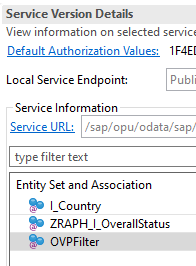
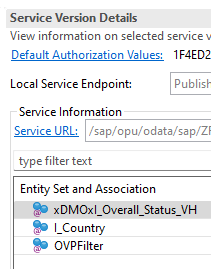
Fixed instructions and solutions

diff --git a/CreateInitialOVP.md b/CreateInitialOVP.md
@@ -8,6 +8,7 @@ As primary source for the CDS View Entity we use ZRAPH\_##\_I\_TravelWDTP.
 To get access to the customers home country, we need the data of /DMO/I_Customer.  
 This view entity could be joined in here, but we already have an association to it defined and exposed in ZRAPH\_##\_I\_TravelWDTP.  
 So, find and use this association.  
+We want to alias this country field because we are placing it in another context now (see Field name in below table).  
   
 Following fields need to be put in the projection list:  
 
@@ -86,7 +87,7 @@ If you press on "Adapt Filters", the 3 fields we defined in the Consumption View
 ### 6. Add filter fields to filter bar and rename them
 This is not how we want our filter bar to look.  
 We want to have the filter fields available directly on the filter bar without needing to adapt them.  
-Also we want different labels not show the travel id at all.  
+Also we want other labels and not show the travel id at all.  
 Therefore we add the following annotations to ZRAPH\_##\_C\_OVPFilter:  
   
 __TravelID:__
@@ -115,28 +116,27 @@ However when pressing the value help button, only a generic popup shows up.
 
 ### 7. Add useful value helps for the filter fields
   
-#### Add associations to the status and country to ZRAPH_##_I_OVPFilter
-The association target is ZRAPH\_I\_OverallStatus.  
-The connection is done using fields TravelStatus and overall_status of the corresponding views.  
-Alias the association with _Status and expose it in the projection list.  
-  
-The association target is I\_Country.  
-The connection is done using fields Country and CustomerHomeCountry of the corresponding views.  
-Alias the association with _Country and expose it in the projection list.  
+#### Reexpose associations to the status and country in ZRAPH_##_I_OVPFilter
+We need associations with targets /DMO/I\_Overall_Status_VH and I_Country.  
+Fortunatelly in ZRAPH\_##\_I\_TravelWDTP we already defined an association to Overall Status.  
+Additionally we already have an association to /DMO/I_Customer, which in turn associates to I_Country.  
+Therefore we can simply reexpose those associations by adding them to the projection list of the CDS View Entity.  
+We want to alias them, though:  
+_OverallStatus as _Status and _Customer._Country as _Country.  
   
 Activate ZRAPH\_##\_I\_OVPFilter.  
   
 [__Solution__](./solutions/CreateInitialOVP/ZRAPH_%23%23_I_OVPFilter-2.txt)
   
 #### Expose the new association in the consumption view ZRAPH_##_C_OVPFilter
-Add the association to the projection list.  
+Add the associations to the projection list.  
 Add the following annotations to fields OverallStatus and CustomerHomeCountry of ZRAPH\_##\_C\_OVPFilter:  
   
 __OverallStatus:__  
 
 ```abap
-@Consumption.valueHelpDefinition: [{entity: { name:    'ZRAPH_I_OverallStatus',
-                                              element: 'TravelStatus' } }]
+@Consumption.valueHelpDefinition: [{entity: { name:    '/DMO/I_Overall_Status_VH',
+                                              element: 'OverallStatus' } }]
 ```
   
 __CustomerHomeCountry:__  
